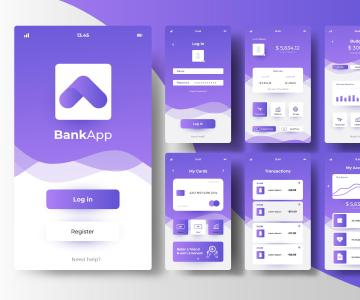
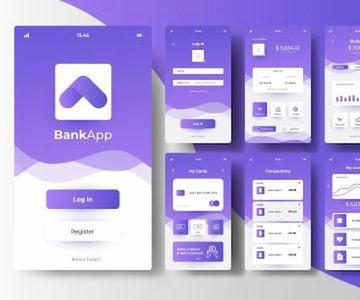
corect

diff --git a/index.html b/index.html
@@ -141,37 +141,37 @@
             <ul>
                 <!-- Portfolio 1 -->
                 <li>
-                    <img src="./images/Portfolio/BankingApp.jpg" alt="Banking App" width="360" height="420">
+                    <img src="./images/Portfolio/BankingApp.jpg" alt="Banking App" width="360" height="300">
                     <h3 class="product-name">Banking App</h3>
                     <p class="product-description">App</p>
                 </li>
                 <!-- Portfolio 2 -->
                 <li>
-                    <img src="./images/Portfolio/CashlessPayment.jpg" alt="Cashless Payment" width="360" height="420">
+                    <img src="./images/Portfolio/CashlessPayment.jpg" alt="Cashless Payment" width="360" height="300">
                     <h3 class="product-name">Cashless Payment</h3>
                     <p class="product-description">Marketing</p>
                 </li>
                 <!-- Portfolio 3 -->
                 <li>
-                    <img src="./images/Portfolio/MeditationApp.jpg" alt="MeditationApp" width="360" height="420">
+                    <img src="./images/Portfolio/MeditationApp.jpg" alt="MeditationApp" width="360" height="300">
                     <h3 class="product-name">Meditation App</h3>
                     <p class="product-description">App</p>
                 </li>
                 <!-- Portfolio 4 -->
                 <li>
-                    <img src="./images/Portfolio/TaxiService.jpg" alt="Taxi Service" width="360" height="420">
+                    <img src="./images/Portfolio/TaxiService.jpg" alt="Taxi Service" width="360" height="300">
                     <h3 class="product-name">Taxi Service</h3>
                     <p class="product-description">Marketing</p>
                 </li>
                 <!-- Portfolio 5 -->
                 <li>
-                    <img src="./images/Portfolio/ScreenIllustrations.jpg" alt="Screen Illustrations" width="360" height="420">
+                    <img src="./images/Portfolio/ScreenIllustrations.jpg" alt="Screen Illustrations" width="360" height="300">
                     <h3 class="product-name">Screen Illustrations</h3>
                     <p class="product-description">Design</p>
                 </li>
                 <!-- Portfolio 6 -->
                 <li>
-                    <img src="./images/Portfolio/OnlineCourses.jpg" alt="Online Courses" width="360" height="420">
+                    <img src="./images/Portfolio/OnlineCourses.jpg" alt="Online Courses" width="360" height="300">
                     <h3 class="product-name">Online Courses</h3>
                     <p class="product-description">Marketing</p>
                 </li>

diff --git a/css/styles.css b/css/styles.css
@@ -30,6 +30,7 @@ ul, ol {
     letter-spacing: 0.02em;
     color: #2e2f42;
     font-size: 16px;
+    text-decoration: none;
 }
 
 .link-navi:active {
